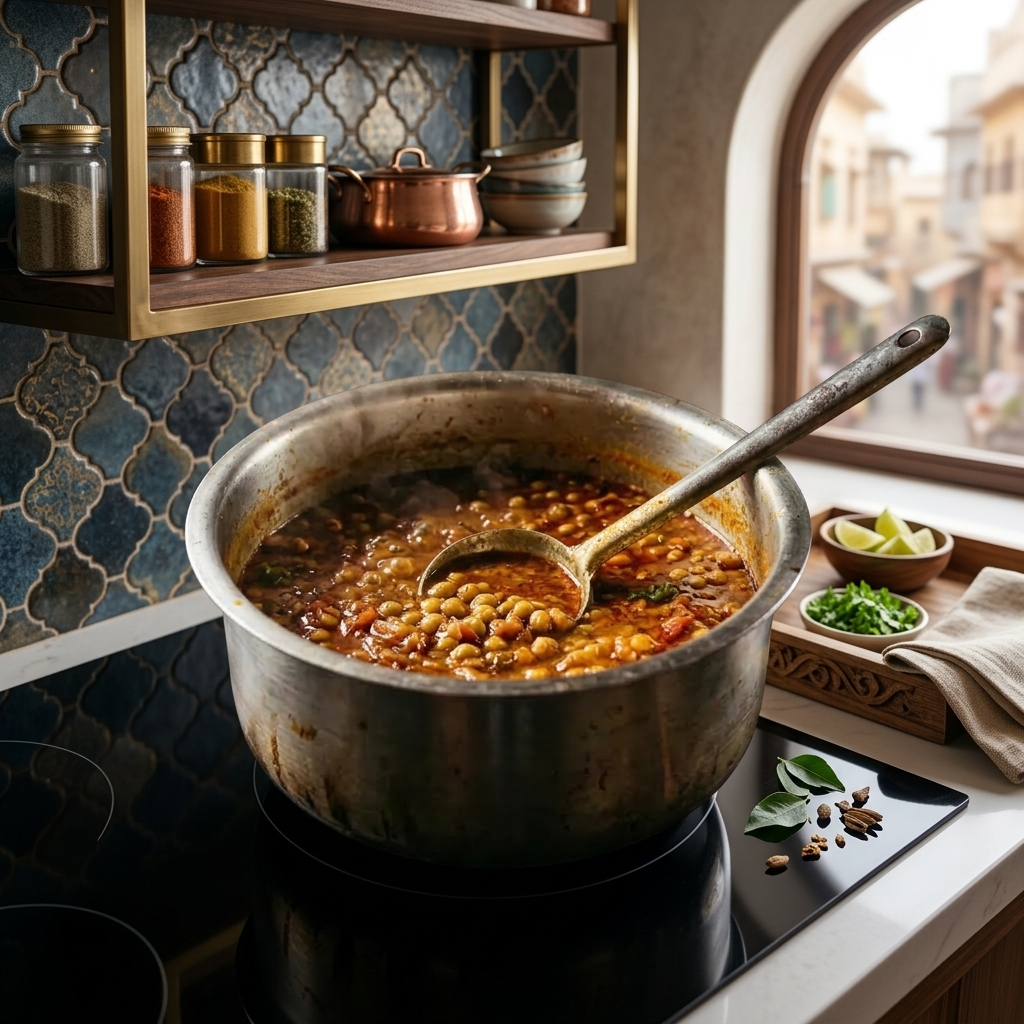
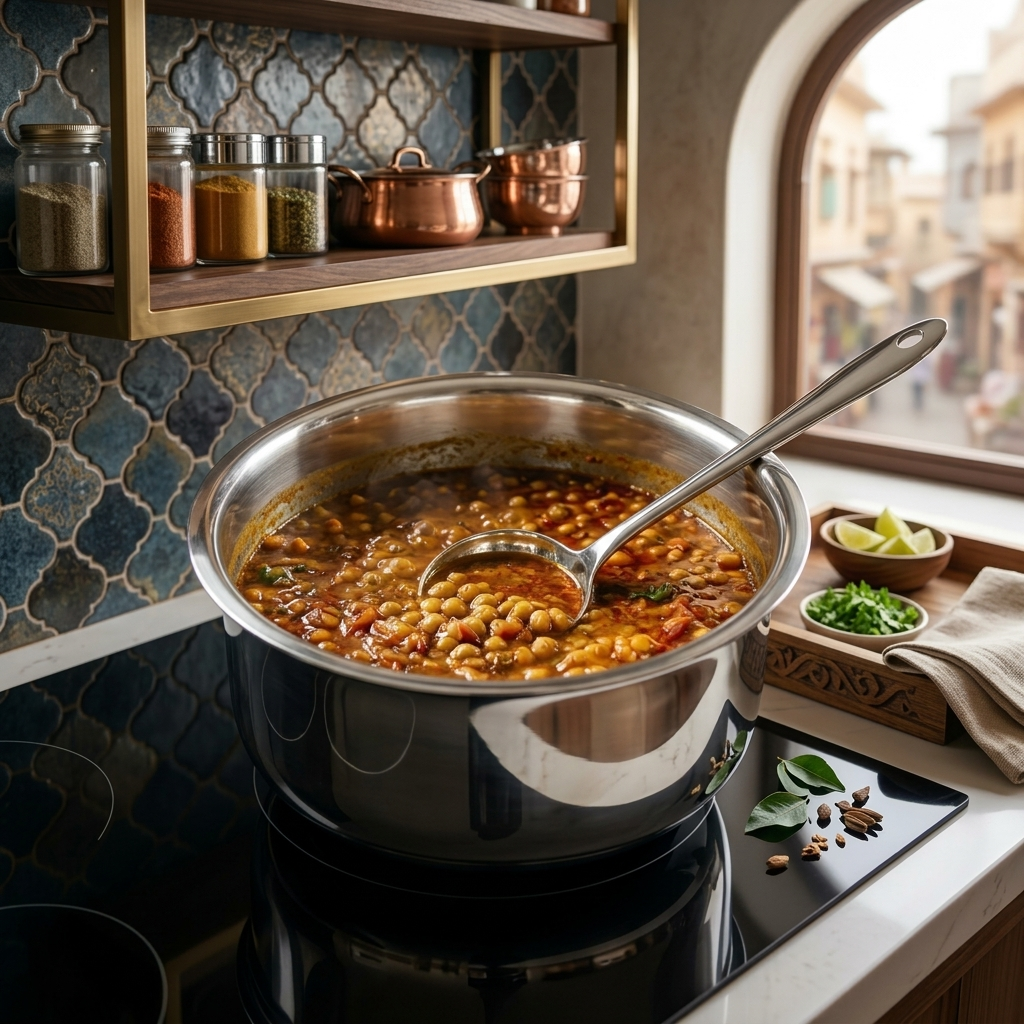
feat: add garlic chutney to regular products and clean gallery pot image

diff --git a/frontend/src/lib/site.js b/frontend/src/lib/site.js
@@ -91,7 +91,7 @@ export const FALLBACK_PRODUCTS = [
     "category": "Sev Usal (Regular)",
     "description": "Spicy Baroda-style usal topped with crunchy sev. Made in our home kitchen in Ahmedabad. Regular recipe. For a no-onion, no-garlic version, see Jain & Swaminarayan.",
     "short_description": "Vadodara's beloved street-food legend — slow-simmered spiced usal crowned with a generous heap of crunchy sev.",
-    "image": `${IMG}/d3b76fd97342f13594358947b448a9c10a2319e38042a72df4c09224ad05bb14.webp`,
+    "image": `${IMG}/sev_usal_with_chutney.png`,
     "price": null,
     "availability": "available",
     "vegetarian": true,
@@ -110,7 +110,7 @@ export const FALLBACK_PRODUCTS = [
     "category": "Sev Usal (Regular)",
     "description": "Baroda-style sev usal served with soft pav, onion and lemon. Regular recipe. Pick your spice level.",
     "short_description": "Baroda-style sev usal served with soft pav, onion and lemon.",
-    "image": `${IMG}/d3b76fd97342f13594358947b448a9c10a2319e38042a72df4c09224ad05bb14.webp`,
+    "image": `${IMG}/sev_usal_with_chutney.png`,
     "price": null,
     "availability": "available",
     "vegetarian": true,
@@ -129,7 +129,7 @@ export const FALLBACK_PRODUCTS = [
     "category": "Sev Usal (Regular)",
     "description": "Sev usal packed to take home, with the sev packed separately so it stays crunchy. Pav, onion-coriander and lemon on the side. Regular recipe. Pick your spice level.",
     "short_description": "Sev usal packed to take home, with the sev packed separately so it stays crunchy.",
-    "image": `${IMG}/d3b76fd97342f13594358947b448a9c10a2319e38042a72df4c09224ad05bb14.webp`,
+    "image": `${IMG}/sev_usal_with_chutney.png`,
     "price": null,
     "availability": "available",
     "vegetarian": true,
@@ -148,7 +148,7 @@ export const FALLBACK_PRODUCTS = [
     "category": "Tuvar Totha (Regular)",
     "description": "Gujarati tuvar totha: dried tuvar cooked in a spicy masala gravy. Made in our home kitchen in Ahmedabad. Regular recipe. For a no-onion, no-garlic version, see Jain & Swaminarayan.",
     "short_description": "A rustic, heartwarming Gujarati street-style tuvar preparation — bold flavour, homestyle comfort.",
-    "image": `${IMG}/a16bc408c30ead3a4c7c8c653f1ea3bab08f7e28bf4de8cd1454704edd1a3b56.webp`,
+    "image": `${IMG}/tuvar_totha_with_chutney.png`,
     "price": null,
     "availability": "available",
     "vegetarian": true,
@@ -167,7 +167,7 @@ export const FALLBACK_PRODUCTS = [
     "category": "Tuvar Totha (Regular)",
     "description": "Spicy Gujarati tuvar totha served with soft pav, onion and lemon. Regular recipe. Pick your spice level.",
     "short_description": "Spicy Gujarati tuvar totha served with soft pav, onion and lemon.",
-    "image": `${IMG}/a16bc408c30ead3a4c7c8c653f1ea3bab08f7e28bf4de8cd1454704edd1a3b56.webp`,
+    "image": `${IMG}/tuvar_totha_with_chutney.png`,
     "price": null,
     "availability": "available",
     "vegetarian": true,
@@ -281,7 +281,7 @@ export const FALLBACK_PRODUCTS = [
     "category": "Family & Party Packs (Regular)",
     "description": "Sev usal in family and party sizes, with the sev packed separately so it stays crunchy. Pav, onion and lemon on the side. Regular recipe. Pick the size and spice level.",
     "short_description": "Sev usal in family and party sizes, with the sev packed separately so it stays crunchy.",
-    "image": `${IMG}/d3b76fd97342f13594358947b448a9c10a2319e38042a72df4c09224ad05bb14.webp`,
+    "image": `${IMG}/sev_usal_with_chutney.png`,
     "price": null,
     "availability": "available",
     "vegetarian": true,
@@ -300,7 +300,7 @@ export const FALLBACK_PRODUCTS = [
     "category": "Family & Party Packs (Regular)",
     "description": "Gujarati tuvar totha in family and party sizes, with pav, onion and lemon on the side. Regular recipe. Pick the size and spice level.",
     "short_description": "Gujarati tuvar totha in family and party sizes, with pav, onion and lemon on the side.",
-    "image": `${IMG}/a16bc408c30ead3a4c7c8c653f1ea3bab08f7e28bf4de8cd1454704edd1a3b56.webp`,
+    "image": `${IMG}/tuvar_totha_with_chutney.png`,
     "price": null,
     "availability": "available",
     "vegetarian": true,
